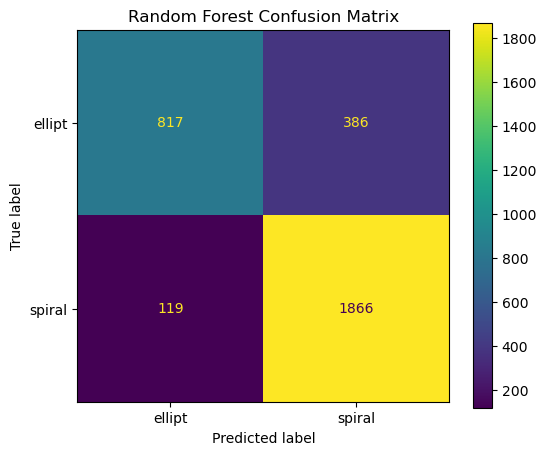
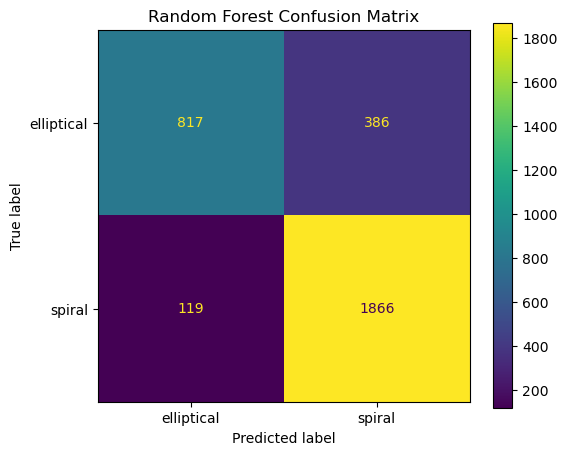
untruncate elliptical

diff --git a/src/clean_data.py b/src/clean_data.py
@@ -133,9 +133,7 @@ data['rz_color'] = data['r'] - data['z']
 data['iz_color'] = data['i'] - data['z']
 
 # calculate type
-spel = np.array(['spiral']*len(data['T']))
-spel[ data['T'] < 0. ] = 'elliptical'
-data['morphology'] = spel
+data["morphology"] = np.where(data["T"] < 0, "elliptical", "spiral")
 
 ###################
 # remove outliers #